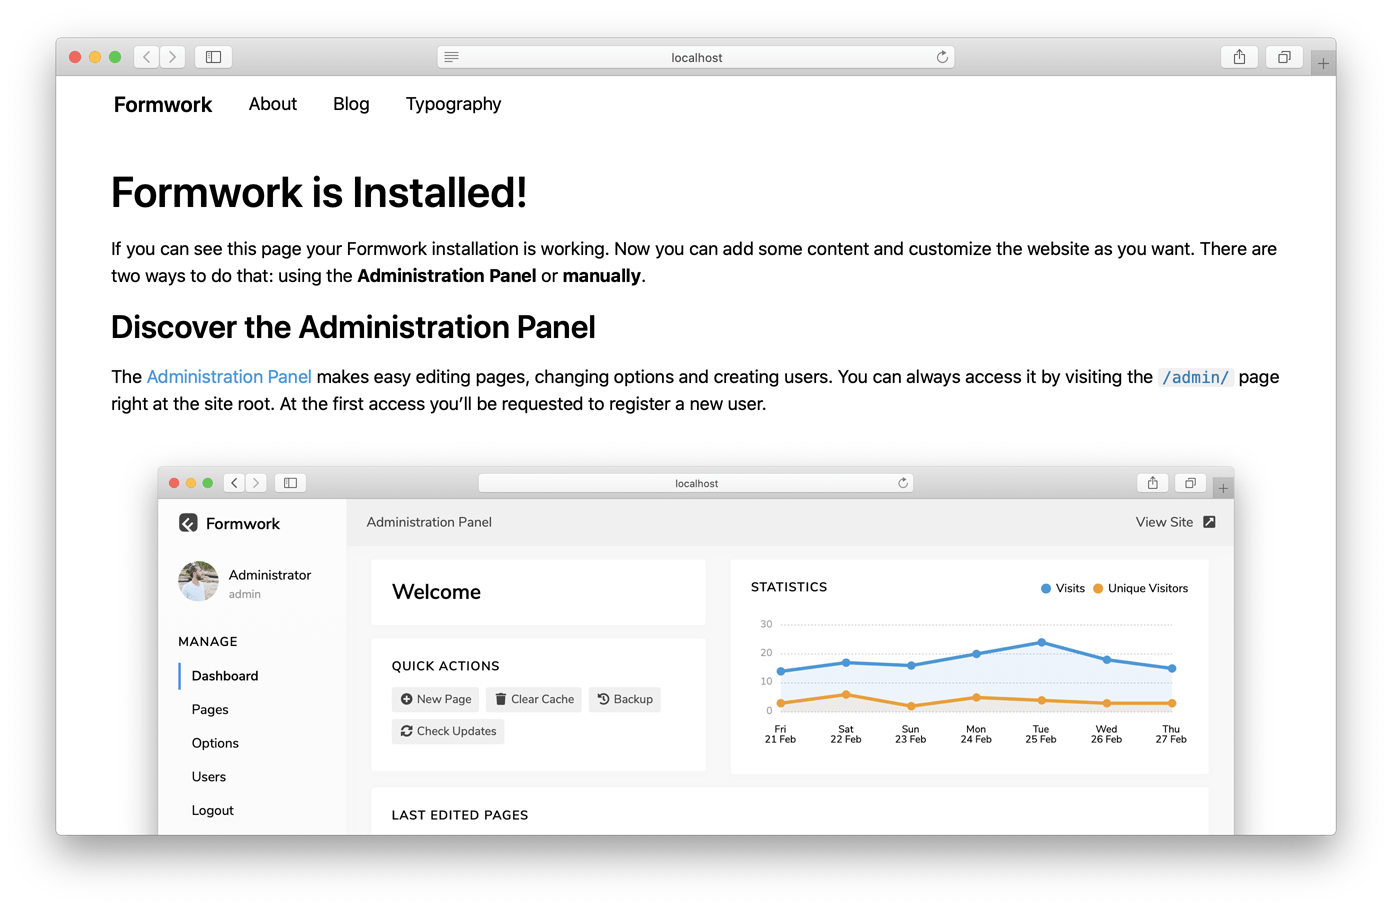
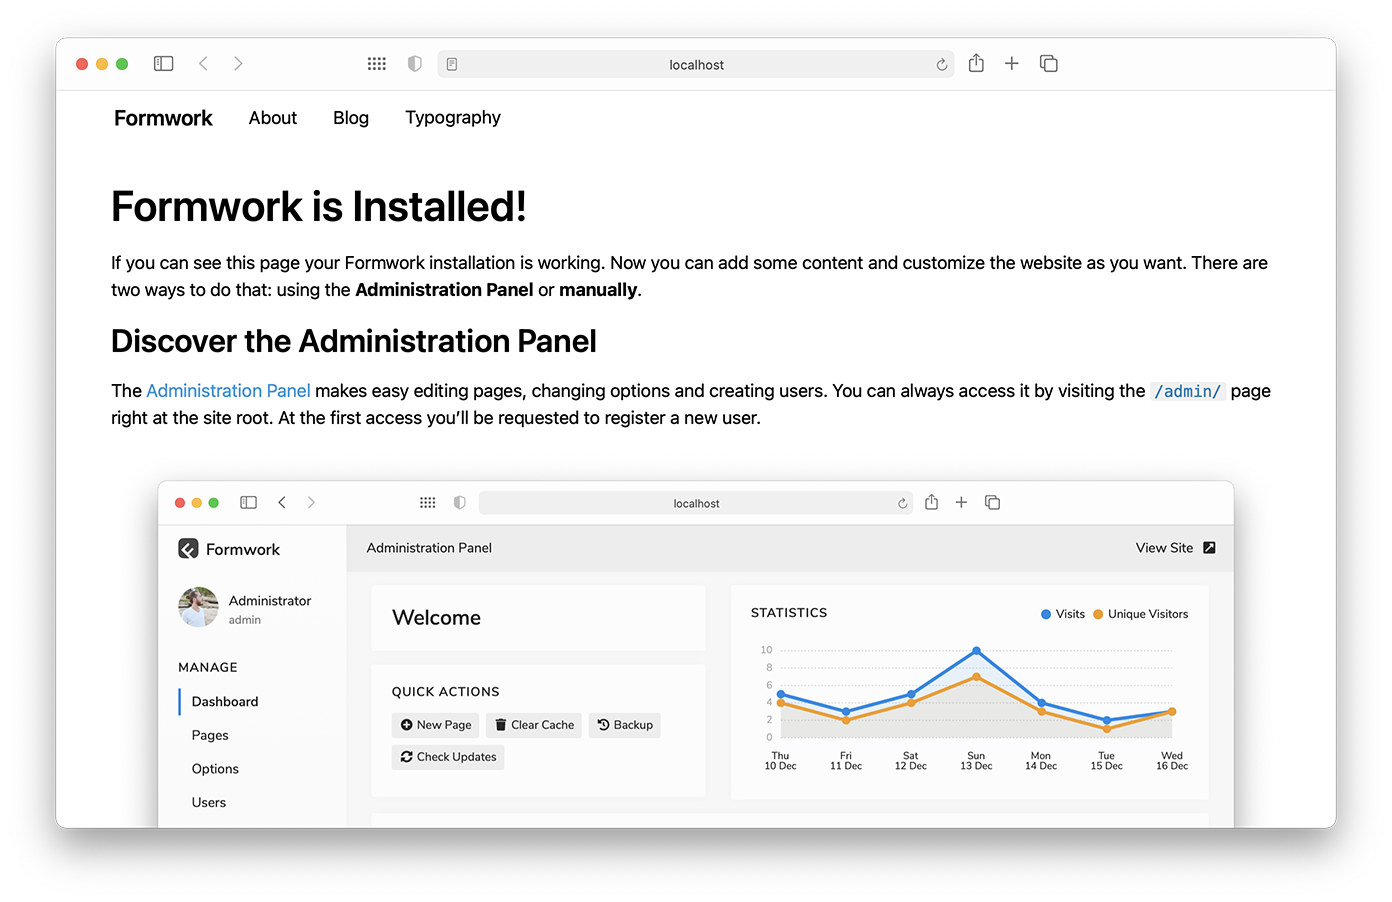
Release 1.11.0

Changed region(s): [[0.0618, 0.1863, 0.9267, 0.9002], [0.0309, 0.031, 0.9576, 0.1552], [0.5251, 0.6208, 0.5869, 0.6829]]

diff --git a/formwork/Core/Formwork.php b/formwork/Core/Formwork.php
@@ -27,7 +27,7 @@ final class Formwork
      *
      * @var string
      */
-    public const VERSION = '1.10.3';
+    public const VERSION = '1.11.0';
 
     /**
      * Array containing options

diff --git a/CHANGELOG.md b/CHANGELOG.md
@@ -1,5 +1,172 @@
 # Changelog
 
+## [1.11.0](https://github.com/getformwork/formwork/releases/tag/1.11.0) (2020-12-16)
+
+**Enhancements**
+
+- **Support PHP >= 7.3.5**
+- **Display Markdown only on active CodeMirror lines**
+- **Merge pull request #56 from getformwork/feature/dark-color-scheme**
+- **Merge pull request #58 from getformwork/feature/json-parser**
+- **Merge pull request #59 from getformwork/feature/updater-semver-parsing**
+- **Merge pull request #60 from getformwork/feature/path-class**
+- **Merge pull request #61 from getformwork/feature/stricter-date-parsing**
+- **Merge pull request #62 from getformwork/feature/improved-date-formats**
+- **Merge pull request #63 from getformwork/feature/improved-cache-serialization**
+- **Merge pull request #65 from getformwork/feature/duration-input**
+- Move from deprecated node-sass to Dart Sass
+- Replace most of `LogicException` with more appropriate exceptions
+- Add `Arr::random()` and `Arr::shuffle()`
+- Add `Collection::random()`
+- Add `PageCollection::shuffle()`
+- Add OPcache status to Options > Info
+- Ad Max Path Length to Options > Info
+- Add Formwork icon in SVG format
+- Use a default avatar image in SVG format
+- Use system monospace font stack
+- Update fonts
+- Move fonts.scss and icons.scss to components folder
+- Update `MimeType::MIME_TYPES`
+- Recognize archive file type and display appropriate icon
+- Add new options to tooltip component
+- Update .eslintrc
+- Build minified CSS only
+- Add dark color scheme CSS
+- Add color scheme support to panel
+- Add color scheme options to system and user schemes
+- Add support for system preferred color scheme
+- Avoid wrapping strings more than once with `Str::wrap()`
+- Add `Str::contains()`, `Str::before()`, `Str::beforeLast()`, `Str::after()` and `Str::afterLast()`
+- Use new utilities from `Str` class
+- Rewrite `Uri::make()` and `Uri::normalize()` moving slashes normalization in the first method
+- Rewrite `FileSystem::name()` and `FileSystem::extension()` using `pathinfo()`
+- Simplify `YAML` class
+- Extract `FileSystem::getLastStreamErrorMessage()` from `FileSystem::fetch()`
+- Add stream error details to `FileSystem::write()`
+- Rename `FileSystem::assert()` to `FileSystem::assertExists()`
+- Add `$assertExists` argument to `FileSystem::isReadable()`, `FileSystem::isWritable()`, `FileSystem::isFile()`, `FileSystem::isDirectory()` and `FileSystem::isEmptyDirectory()`
+- Use `$assertExists` argument to remove `FileSystem::exists()` checks
+- Use `substr_compare()` to make `Str::startsWith()` and `Str::endsWith()` more efficient
+- Add `Str::append()` and `Str::prepend()`
+- Return `User::lastAccess()` as integer
+- Normalize path in `Site::__construct()`
+- Avoid treating page relative path as URI
+- Remove unneeded slashes normalization since `Uri::normalize()` does that
+- Throw an exception when an URI is invalid
+- Handle default ports scheme-dependently in `Uri` class
+- Handle scheme and host always as lowercase in `Uri` class
+- Avoid concatenating twice in `Uri::make()`
+- Add `AbstractEncoder` class
+- Make `YAML` class extend `AbstractEncoder`
+- Use `YAML::encodeToFile()`
+- Add `JSON` class
+- Replace `json_encode()` and `json_decode()` with methods from `JSON`
+- Make `Formwork` and `Admin` classes final
+- Add `SemVer` class
+- Add supplementary version checks to `Updater::checkUpdates()`
+- Add `Path` class
+- Use methods from `Path` class in `FileSystem` and `Uri`
+- Remove superfluous argument
+- Simplify conditional returns
+- Simplify and combine conditionals when possible
+- Simplify `Arr::appendMissing()`
+- Simplify `Cookie::send()`
+- Remove superfluous checks before foreach
+- Use `random_bytes()` in `FileSystem::randomName()`
+- Add `$prefix` argument to `FileSystem::randomName()`
+- Make `FileSystem::createFile()` check file existence atomically and avoid call to `FileSystem::write()`
+- Make `FileSystem::createDirectory()` error handling similar to `FileSystem::createFile()`
+- Add `FileSystem::createTemporaryFile()`
+- Use `FileSystem::createTemporaryFile()` in `FileSystem::write()`
+- Explicitly handle the mode of created files and directories
+- Add File Creation Mask to Options > Info
+- Use SHA-256 hashes instead of SHA-1
+- Avoid retaining in memory unmodified copies of images
+- Update default avatar
+- Move `<script>` tags before `</body>`
+- Load scripts in `login` and `register` views
+- Move JSON encoding to controllers
+- Add `Date` class
+- Improve validation in `Validator::validateDate()`
+- Replace `strtotime()` with `Date::toTimestamp()`
+- Add `Str::escapeAttr()`
+- Always escape attributes with `HTML::attribute()`
+- Add `escapeAttr` helper
+- Use `escapeAttr` helper in admin views
+- Add missing type declarations
+- Move DatePicker `dayLabels`, `monthLabels` and `todayLabel` to `labels` property
+- Rewrite DatePicker formatting function
+- Add `date.weekdays.long` to translations
+- Add `formatToPattern()`, `patternToFormat()`, `formatDateTime()` and `formatTimestamp()` to `DateFormats` class
+- Update `AbstractController::defaults()`
+- Simplify `Statistics::getChartData()`
+- Move view helpers to `View::helpers()`
+- Add `date()` and `datetime()` helpers to views
+- Add `Arr::isAssociative()`
+- Match backslash in `Page::__construct()`
+- Merge branch 'master' into feature/path-class
+- Remove superfluous argument
+- Add `PHP` parser class
+- Use PHP parser instead of `serialize()` in `FilesCache`
+- Add `Response::__set_state()`
+- Encode empty arrays inline in `PHP::encodeData()`
+- Add duration field
+- Use duration fields in system options
+- Make sure duration input value is always a safe integer
+- Add duration strings to French translation
+- Add `intervalNames` argument to `secondsToInterval()`
+- Rename `display` option to `intervals` in DurationInput
+- Remove leading zeros in DurationInput
+- Use `blur` event intead of `change`
+- Allow leading zeros for decimal numbers in DurationInput
+- Add focus styles to editor
+- Use `Str::append()` in `Uri::normalize()`
+- Rename `Uri::resolveRelativeUri()` to `Uri::resolveRelative()`
+- Throw an exception in `MimeType::fromFile()` when the extension `fileinfo` is not enabled
+- Update exception message in `Image::initialize()`
+- Add parentheses after `__METHOD__` for consistency
+- Export helpers to separate file
+- Export admin view helpers to separate file
+- Prevent direct access to .php files
+- Rename `Page::id()` to `Page::name()`
+- Add `AbstractPage::uid()`
+- Add `File::hash()`
+- Create browsing context for preview links to avoid always opening a new tab
+- Add details to `@deprecated` tags
+- Add `Text` class
+- Add `countWords`, `truncate`, `truncateWords`, `readingTime`, `markdown`, `date` and `datetime` helpers
+
+**Bug fixes**
+
+- Fix spinner component due to Dart Sass breaking changes
+- Fix argument validation in `Image` class
+- Fix return type in `File::type()`
+- Fix for-in loops
+- Fix `.page-slug-change` icon
+- Fix `Str::endsWith()` returning `false` with empty `$needle`
+- Fix `FileSystem::write()` potentially writing files without write permissions
+- Fix timestamp format to avoid locale-dependent issues in `Log::log()`
+- Fix method visibility
+- Fix `FileSystem::isVisible()` failing for empty paths
+- Fix `FileSystem::moveDirectory()` ignoring `$overwrite` argument on recursion
+- Fix js error in pages without sidebar
+- Fix tooltips.js altering title attributes outside document body
+- Fix `SemVer::fromString()` for PHP < 7.4
+- Fix normalization after trimming separators in `Uri::make()`
+- Fix `Validator::parse()` precision issues in casting to numeric types
+- Fix `Utils.toSafeInteger()` not converting to integer values
+- Fix return type
+- Fix terminology of deprecation messages
+- Fix `PageCollection::sort()` using `id` as default property, returning as adjacent pages in completely different places within hierarchy
+- Fix `@deprecated` tag details
+
+**Deprecations**
+
+- Deprecate string and invalid `$direction` argument in `PageCollection::sort()`
+- Deprecate `FileSystem::temporaryName()`
+- Deprecate the possibility to return an array or a string with `MimeType::toExtension()`
+- Deprecate `Uri::relativePath()`
+
 ## [1.10.3](https://github.com/getformwork/formwork/releases/tag/1.10.3) (2020-11-14)
 
 **Enhancements**

diff --git a/README.md b/README.md
@@ -9,7 +9,7 @@
 
 Formwork is a flat file-based Content Management System (CMS) to make and manage simple sites.
 
-Latest version: [**1.10.3**](https://github.com/getformwork/formwork/releases/latest) | [**Changelog**](CHANGELOG.md)
+Latest version: [**1.11.0**](https://github.com/getformwork/formwork/releases/latest) | [**Changelog**](CHANGELOG.md)
 
 ## Features
 - ⚡ Lightweight
@@ -20,8 +20,8 @@ Latest version: [**1.10.3**](https://github.com/getformwork/formwork/releases/la
 ![](assets/images/formwork.png)
 
 ## Requirements
-- PHP 7.1.3 or higher
-- PHP extensions `fileinfo`, `gd` and `zip`
+- PHP **7.3.5** or higher
+- PHP extensions `fileinfo`, `gd`, `mbstring` and `zip`
 
 ## Installing
 
